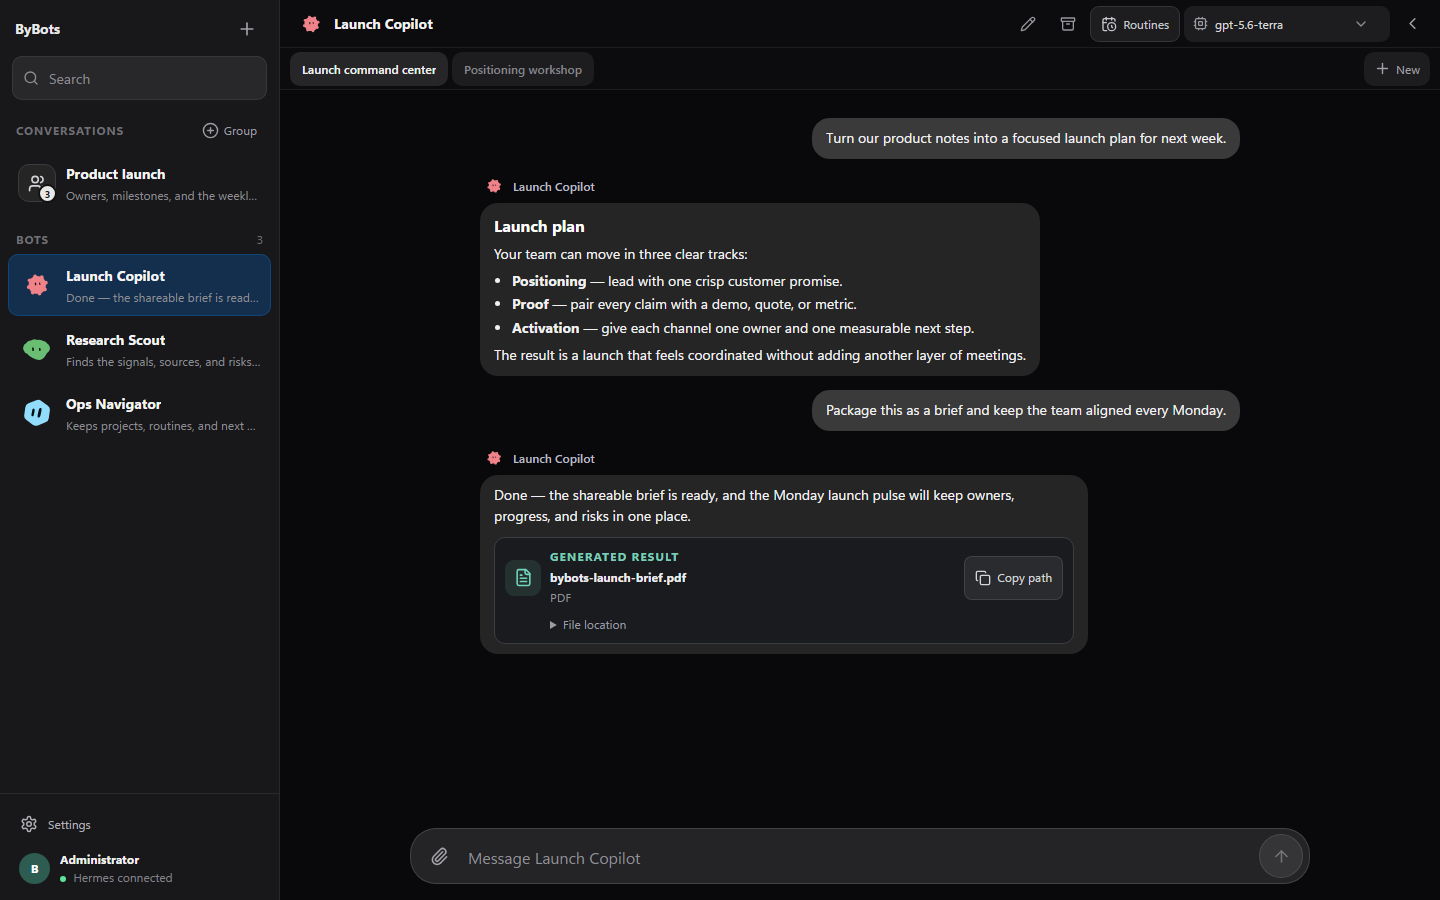
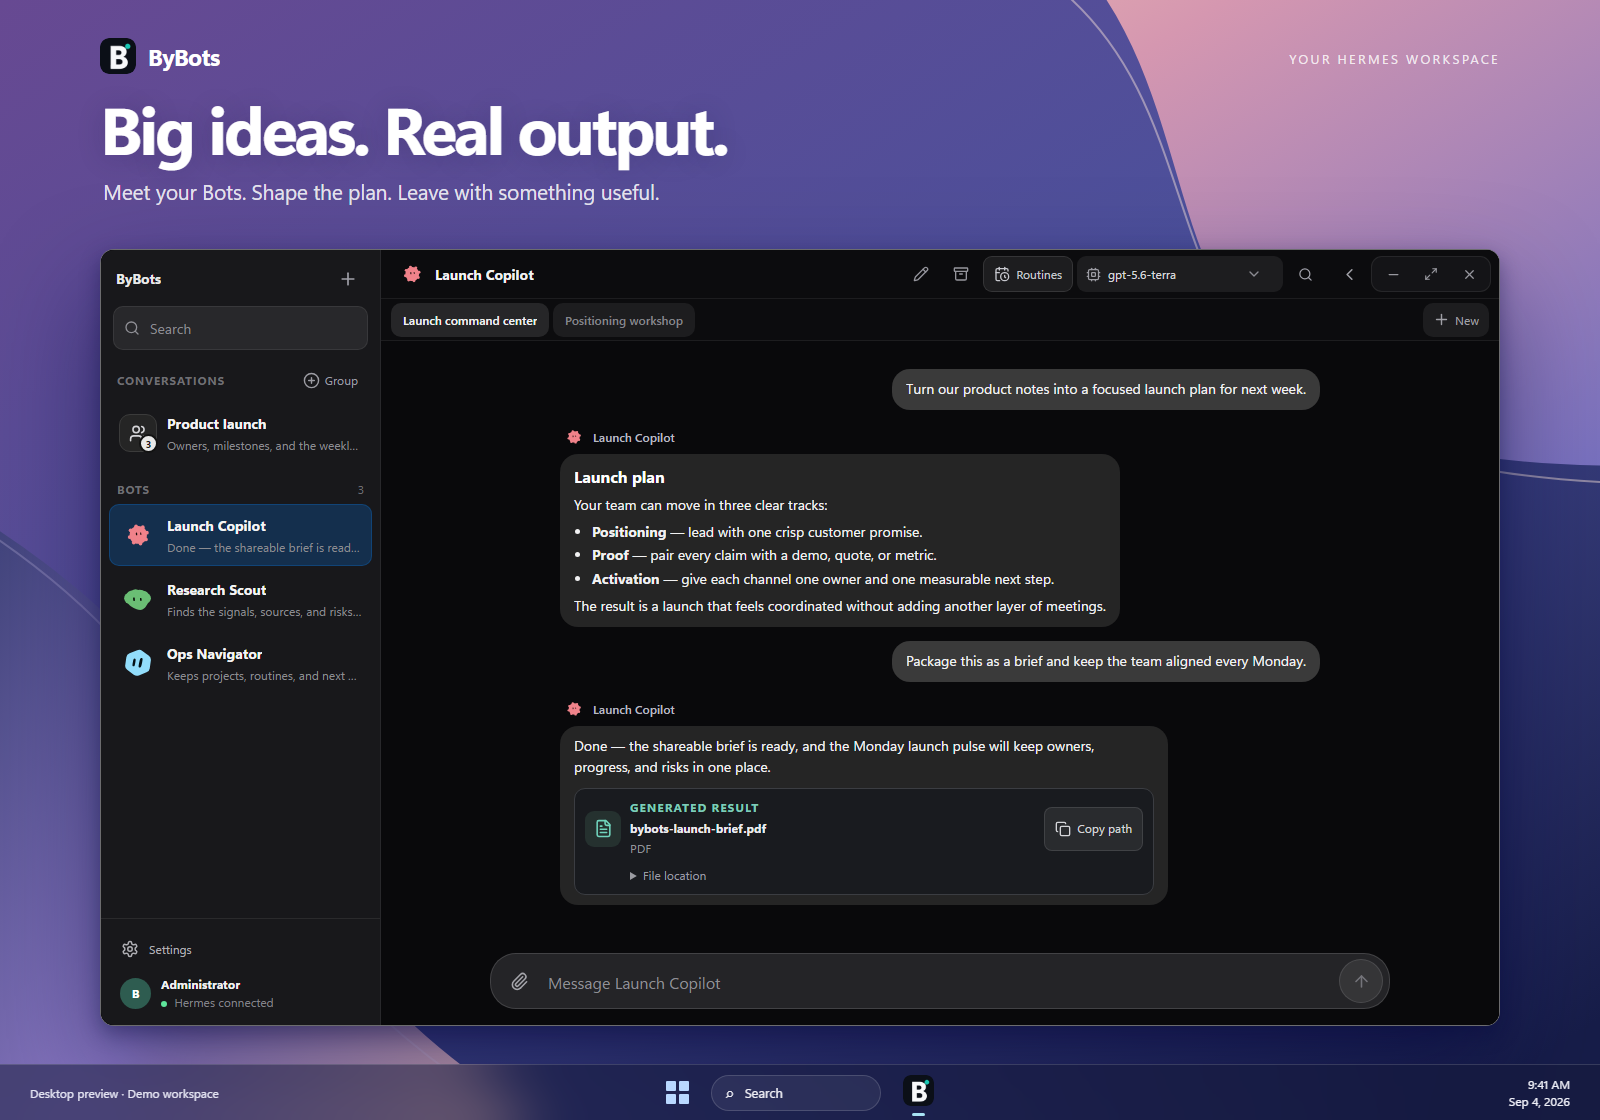
docs: showcase ByBots in styled desktop product screenshots

diff --git a/README.md b/README.md
@@ -26,13 +26,23 @@ Bridge that keeps gateway credentials away from the browser.
 
 ## See ByBots in action
 
-**A focused conversation with a specialized Bot**
+**Big ideas. Real output.**
 
-![ByBots conversation with Launch Copilot producing a structured launch plan and a generated brief](docs/screenshots/byfinity-bots-bot-conversation.png)
+![ByBots Windows desktop preview: Launch Copilot turns a conversation into a launch plan and a generated brief, in a floating application window over a wallpaper](docs/screenshots/byfinity-bots-bot-conversation.png)
 
-| Multi-Bot workspace | Mobile conversation |
-| --- | --- |
-| ![ByBots desktop workspace showing several Bots collaborating in a group conversation](docs/screenshots/byfinity-bots-desktop.png) | ![ByBots mobile conversation with a compact messaging layout](docs/screenshots/byfinity-bots-mobile.png) |
+**One conversation. A whole AI team.**
+
+![ByBots desktop preview: Launch Copilot, Research Scout, and Ops Navigator collaborate in one group, with visible mentions and a generated result](docs/screenshots/byfinity-bots-desktop.png)
+
+*Real ByBots interface with demo conversations, presented in a styled desktop
+scene. Wallpapers and taskbar are presentation elements, not part of ByBots.*
+
+<details>
+<summary>See the mobile conversation experience</summary>
+
+<img src="docs/screenshots/byfinity-bots-mobile.png" alt="ByBots mobile conversation with a compact messaging layout" width="360">
+
+</details>
 
 The same responsive interface runs in the browser and inside the Windows or
 macOS desktop shell. On mobile, the navigation gets out of the way when a

diff --git a/docs/screenshots/README.md b/docs/screenshots/README.md
@@ -1,0 +1,27 @@
+# Public product screenshots
+
+Run `npm run screenshots` from the repository root to regenerate this set.
+No live Hermes gateway, real conversation, credential, or personal desktop is
+used. The capture script starts an isolated Vite server and intercepts API
+requests with English demonstration data.
+
+- `byfinity-bots-bot-conversation.png`: 1600 × 1120, a specialized Bot turning a
+  conversation into a plan and generated-result card.
+- `byfinity-bots-desktop.png`: 1600 × 1120, a three-Bot group with mentions and
+  a generated-result card.
+- `byfinity-bots-mobile.png`: 430 × 932, the actual responsive conversation UI.
+
+The desktop images render the real application inside an iframe with its
+Windows layout and actual window-control component. Control callbacks are inert
+in this capture-only environment. The surrounding wallpaper, marketing copy,
+window shadow, and stylized taskbar are deterministic presentation scenery from
+`scripts/screenshot-scene.mjs`; they are not an operating-system capture or
+additional product functionality. The UI is not repainted by an image model.
+
+The fixture conversations and file cards illustrate supported UI, not evidence
+of an executed production workflow. No demo PDF is included. Dates are fixed
+to the September 2026 demonstration workspace. The application source and
+styles are unchanged by screenshot generation.
+
+`manifest.json` records dimensions, file sizes, and SHA-256 checksums for the
+generated exports. Review the PNGs after regeneration before publishing them.
